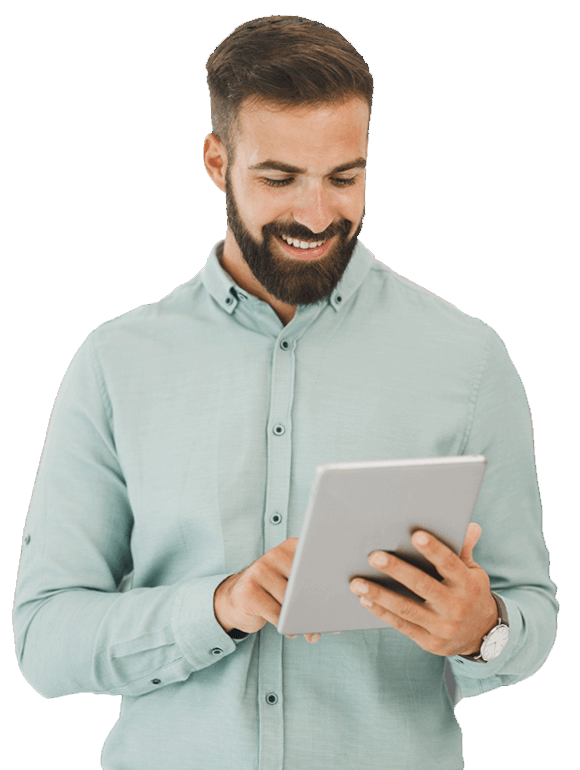
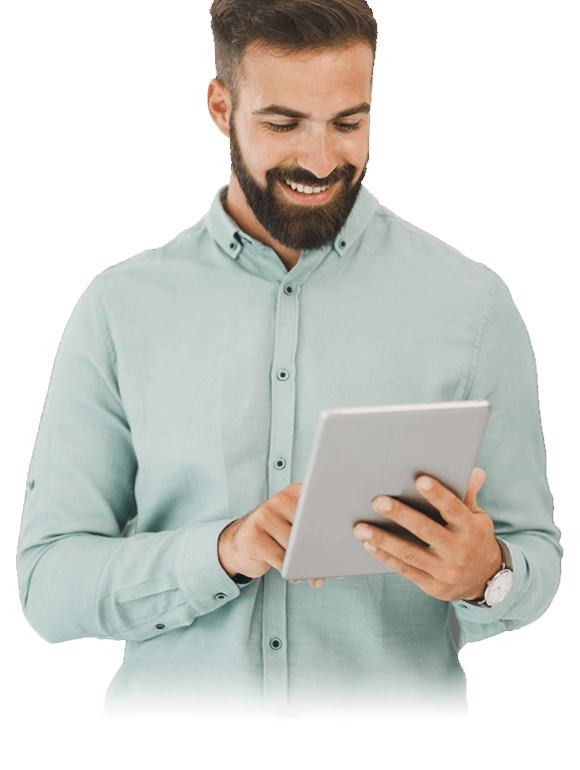
changed files

diff --git a/src/components/Footer.jsx b/src/components/Footer.jsx
@@ -44,7 +44,7 @@ const Footer = () => {
           <Col lg={4} sm={6} md={6}>
             <h5 className='  fw-bold px-4 padtext real '>Lasglowtech</h5>
             <p className='  text-light fs-6  px-4 pt-4 '>Lasglowtech is a digital agency, with the core mandate of designing and creating mobile responsive and user friendly websites by bringing design ideas to reality for any organization, and that clients are satisfied.</p>
-            <div className="navbrand ps-4 "><img src="Weblogo.png" alt="weblogo" className='navimg fs-6'></img> </div>
+            <div className="navbrand ps-4 "><img src="Logograd.png" alt="weblogo" className='navimg fs-6'></img> </div>
 
           </Col>
 

diff --git a/src/components/Header.jsx b/src/components/Header.jsx
@@ -14,7 +14,7 @@ const Navbar = () => {
     <div className="navarea d-flex align-items-center">
       <Container>
         < div className='navs d-flex flex-row justify-content-between align-items-center'>
-          <div className="navbrand ps-4 "><img src="Weblogo.png" alt="i" className='navimg fs-6'></img> </div>
+          <div className="navbrand ps-4 "><img src="Logograd.png" alt="i" className='navimg fs-6'></img> </div>
 
           <button class="navbar-toggler p-2 rounded-circle bg-color " type="button" >
             <span class="navbar-toggler-icon"><i class="menu-burger  secure fa fa-bars real "

diff --git a/src/App.css b/src/App.css
@@ -12,7 +12,7 @@
 :root {
   /* colors */
   --white-col: #ffffff;
-  --green-color: #00FFFF;
+  --green-color: #00d3ac;
 
   --blue-color: #213F7D;
   --ash: #545F7D;
@@ -52,7 +52,7 @@
 
 /* NAVBAR STYLING */
 .navimg {
-  width: 150px;
+  width: 90px;
   height: auto;
 
 }
@@ -174,7 +174,7 @@ background-color: var(--green-color);
 }
 
 #row2 {
-  background-image: url('/public/Images/deds.png');
+  /* background-image: url('/public/Images/deds.png'); */
   background-repeat: no-repeat;
   background-position: center;
   background-size: contain;

diff --git a/src/components/Home.jsx b/src/components/Home.jsx
@@ -69,7 +69,7 @@ const Homepage = () => {
               </div>
 
               <div className="col-lg-5  d-flex jusify-content-center align-items-ceneter pt-5" id="row2" >
-                <img src='./Images/man.png' alt='workimage ' className='w-100 p-3'></img>
+                <img src='./Images/Heroimage.png' alt='workimage ' className='w-100 p-3'></img>
 
               </div>
             </div>

diff --git a/public/index.html b/public/index.html
@@ -2,7 +2,7 @@
 <html lang="en">
   <head>
     <meta charset="utf-8" />
-    <link rel="icon" href="%PUBLIC_URL%/Weblogo.png" />
+    <link rel="icon" href="%PUBLIC_URL%/Logosgrad.png" />
   
     <meta name="viewport" content="width=device-width, initial-scale=1.0, maximum-scale=1.0, user-scalable=no" />
 
